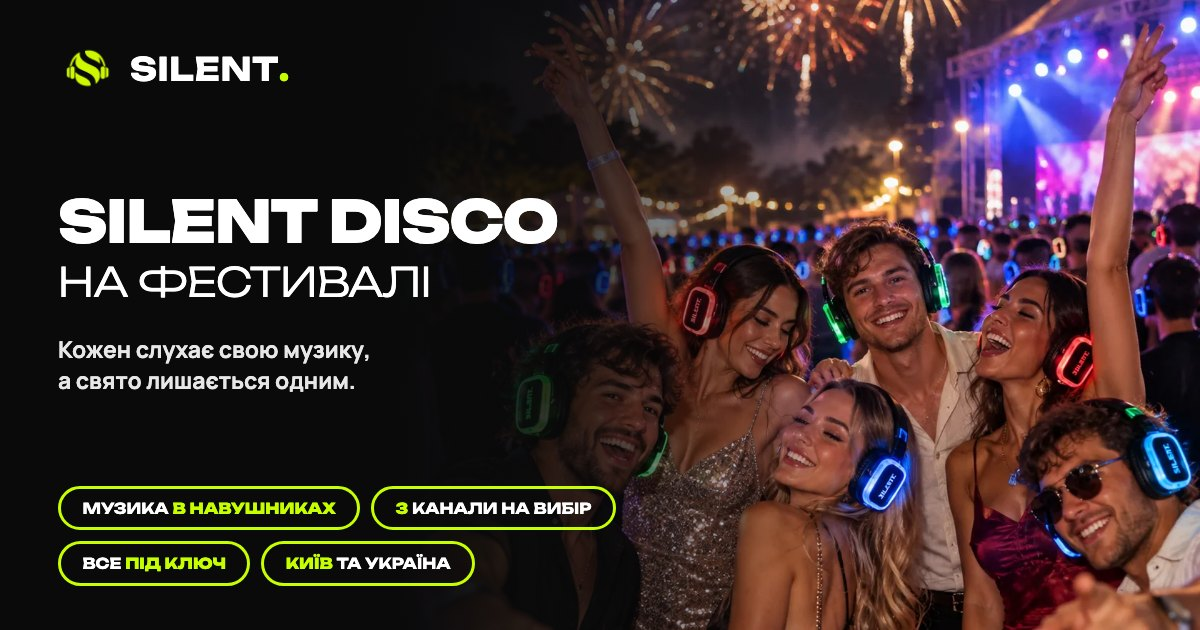
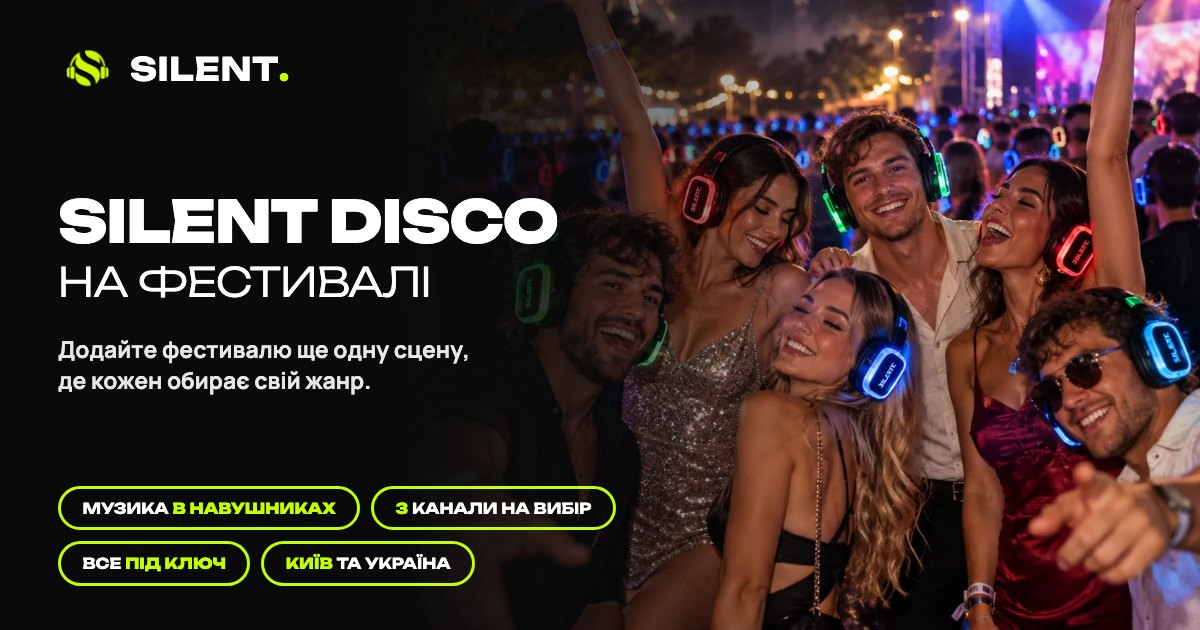
Фестивалі: нова OG-картка (друзі під салютом, підзаголовок про окрему сцену), оновлено alt OG

diff --git a/experiences/festivals/index.html b/experiences/festivals/index.html
@@ -47,12 +47,12 @@ if (/^(localhost|127\.0\.0\.1|\[::1\])$/.test(location.hostname) || /\.localhost
 <meta property="og:image:width" content="1200">
 <meta property="og:image:height" content="630">
 <meta property="og:image:type" content="image/jpeg">
-<meta property="og:image:alt" content="Гості фестивалю танцюють у навушниках Silent Disco із кольоровою підсвіткою">
+<meta property="og:image:alt" content="Друзі обіймаються під святковим салютом на фестивалі в навушниках Silent Disco">
 <meta name="twitter:card" content="summary_large_image">
 <meta name="twitter:title" content="Silent Disco на фестивалі | SILENT">
 <meta name="twitter:description" content="Фестиваль, де кожен слухає свою музику в навушниках, а на майданчику тихіше. Київ і вся Україна.">
 <meta name="twitter:image" content="https://silent.org.ua/images/festivals/og-festivals.jpg">
-<meta name="twitter:image:alt" content="Гості фестивалю танцюють у навушниках Silent Disco із кольоровою підсвіткою">
+<meta name="twitter:image:alt" content="Друзі обіймаються під святковим салютом на фестивалі в навушниках Silent Disco">
 <link rel="canonical" href="https://silent.org.ua/experiences/festivals/">
 <link rel="alternate" hreflang="uk" href="https://silent.org.ua/experiences/festivals/">
 <link rel="alternate" hreflang="en" href="https://silent.org.ua/en/experiences/festivals/">
@@ -533,10 +533,10 @@ if (/^(localhost|127\.0\.0\.1|\[::1\])$/.test(location.hostname) || /\.localhost
               <div class="nav-mega-card">
                 <div class="nav-mega-cat-head"><span class="nav-mega-icon" aria-hidden="true"><svg viewBox="0 0 24 24" fill="none" stroke="currentColor" stroke-width="1.7" stroke-linecap="round" stroke-linejoin="round"><rect x="3.5" y="3.5" width="7" height="7" rx="1.6"/><rect x="13.5" y="3.5" width="7" height="7" rx="1.6"/><rect x="3.5" y="13.5" width="7" height="7" rx="1.6"/><rect x="13.5" y="13.5" width="7" height="7" rx="1.6"/></svg></span><a href="/blog/#topics" class="nav-mega-cat">Добірка</a></div>
                 <div class="nav-blog-cards">
-                  <a href="/blog/tykha-dyskoteka-silent-disco/" class="nav-blog-card"><span class="nav-blog-thumb"><img src="/images/silent-disco/silent-disco-podrugy-tantsyuyut-pid-svitlom.webp" alt="" loading="lazy"></span> <span class="nav-blog-cat">Про формат</span> <span class="nav-blog-t">Silent Disco, або тиха дискотека: гід для тих, хто чує про формат уперше</span></a>
+                  <a href="/blog/vesillya-voyennyi-stan/" class="nav-blog-card"><span class="nav-blog-thumb"><img src="/images/uc/wedding.webp" alt="" loading="lazy"></span> <span class="nav-blog-cat">Свята</span> <span class="nav-blog-t">Весілля під час війни: розваги й комендантська година</span></a>
                   <a href="/blog/yak-vidsvyatkuvaty-den-narodzhennya/" class="nav-blog-card"><span class="nav-blog-thumb"><img src="/images/birthday/den-narodzhennya-selfi-v-navushnykakh.webp" alt="" loading="lazy"></span> <span class="nav-blog-cat">Свята</span> <span class="nav-blog-t">Як відсвяткувати день народження, щоб гості згадували його з посмішкою</span></a>
-                  <a href="/blog/idei-dlya-korporativu/" class="nav-blog-card"><span class="nav-blog-thumb"><img src="/images/corp/nichna-vechirka-pid-syayvom-navushnykiv.webp" alt="" loading="lazy"></span> <span class="nav-blog-cat">Бізнес</span> <span class="nav-blog-t">Ідеї для корпоративу: розваги без конкурсів і сцени</span></a>
-                  <a href="/blog/novorichnyi-korporatyv-idei/" class="nav-blog-card"><span class="nav-blog-thumb"><img src="/images/corp/yaskrave-selfi-na-vechirtsi-v-navushnykakh.webp" alt="" loading="lazy"></span> <span class="nav-blog-cat">Бізнес</span> <span class="nav-blog-t">Новорічний корпоратив: 7 ідей для вечірки, яку команда запам&#x27;ятає</span></a>
+                  <a href="/blog/vechirka-bez-shumu-sysidy/" class="nav-blog-card"><span class="nav-blog-thumb"><img src="/images/uc/houseparty.webp" alt="" loading="lazy"></span> <span class="nav-blog-cat">Організація</span> <span class="nav-blog-t">Як провести вечірку, щоб не заважати сусідам</span></a>
+                  <a href="/blog/tykha-dyskoteka-silent-disco/" class="nav-blog-card"><span class="nav-blog-thumb"><img src="/images/silent-disco/silent-disco-podrugy-tantsyuyut-pid-svitlom.webp" alt="" loading="lazy"></span> <span class="nav-blog-cat">Про формат</span> <span class="nav-blog-t">Silent Disco, або тиха дискотека: гід для тих, хто чує про формат уперше</span></a>
                 </div>
                 <a href="/blog/" class="nav-mega-all">Усі статті<svg viewBox="0 0 24 24" fill="none" stroke="currentColor" stroke-width="2" stroke-linecap="round" stroke-linejoin="round" aria-hidden="true"><path d="M5 12h14"/><path d="m13 6 6 6-6 6"/></svg></a>
               </div>

diff --git a/about/index.html b/about/index.html
@@ -392,10 +392,10 @@ if (/^(localhost|127\.0\.0\.1|\[::1\])$/.test(location.hostname) || /\.localhost
               <div class="nav-mega-card">
                 <div class="nav-mega-cat-head"><span class="nav-mega-icon" aria-hidden="true"><svg viewBox="0 0 24 24" fill="none" stroke="currentColor" stroke-width="1.7" stroke-linecap="round" stroke-linejoin="round"><rect x="3.5" y="3.5" width="7" height="7" rx="1.6"/><rect x="13.5" y="3.5" width="7" height="7" rx="1.6"/><rect x="3.5" y="13.5" width="7" height="7" rx="1.6"/><rect x="13.5" y="13.5" width="7" height="7" rx="1.6"/></svg></span><a href="/blog/#topics" class="nav-mega-cat">Добірка</a></div>
                 <div class="nav-blog-cards">
-                  <a href="/blog/tykha-dyskoteka-silent-disco/" class="nav-blog-card"><span class="nav-blog-thumb"><img src="/images/silent-disco/silent-disco-podrugy-tantsyuyut-pid-svitlom.webp" alt="" loading="lazy"></span> <span class="nav-blog-cat">Про формат</span> <span class="nav-blog-t">Silent Disco, або тиха дискотека: гід для тих, хто чує про формат уперше</span></a>
+                  <a href="/blog/vesillya-voyennyi-stan/" class="nav-blog-card"><span class="nav-blog-thumb"><img src="/images/uc/wedding.webp" alt="" loading="lazy"></span> <span class="nav-blog-cat">Свята</span> <span class="nav-blog-t">Весілля під час війни: розваги й комендантська година</span></a>
                   <a href="/blog/yak-vidsvyatkuvaty-den-narodzhennya/" class="nav-blog-card"><span class="nav-blog-thumb"><img src="/images/birthday/den-narodzhennya-selfi-v-navushnykakh.webp" alt="" loading="lazy"></span> <span class="nav-blog-cat">Свята</span> <span class="nav-blog-t">Як відсвяткувати день народження, щоб гості згадували його з посмішкою</span></a>
-                  <a href="/blog/idei-dlya-korporativu/" class="nav-blog-card"><span class="nav-blog-thumb"><img src="/images/corp/nichna-vechirka-pid-syayvom-navushnykiv.webp" alt="" loading="lazy"></span> <span class="nav-blog-cat">Бізнес</span> <span class="nav-blog-t">Ідеї для корпоративу: розваги без конкурсів і сцени</span></a>
-                  <a href="/blog/novorichnyi-korporatyv-idei/" class="nav-blog-card"><span class="nav-blog-thumb"><img src="/images/corp/yaskrave-selfi-na-vechirtsi-v-navushnykakh.webp" alt="" loading="lazy"></span> <span class="nav-blog-cat">Бізнес</span> <span class="nav-blog-t">Новорічний корпоратив: 7 ідей для вечірки, яку команда запам&#x27;ятає</span></a>
+                  <a href="/blog/vechirka-bez-shumu-sysidy/" class="nav-blog-card"><span class="nav-blog-thumb"><img src="/images/uc/houseparty.webp" alt="" loading="lazy"></span> <span class="nav-blog-cat">Організація</span> <span class="nav-blog-t">Як провести вечірку, щоб не заважати сусідам</span></a>
+                  <a href="/blog/tykha-dyskoteka-silent-disco/" class="nav-blog-card"><span class="nav-blog-thumb"><img src="/images/silent-disco/silent-disco-podrugy-tantsyuyut-pid-svitlom.webp" alt="" loading="lazy"></span> <span class="nav-blog-cat">Про формат</span> <span class="nav-blog-t">Silent Disco, або тиха дискотека: гід для тих, хто чує про формат уперше</span></a>
                 </div>
                 <a href="/blog/" class="nav-mega-all">Усі статті<svg viewBox="0 0 24 24" fill="none" stroke="currentColor" stroke-width="2" stroke-linecap="round" stroke-linejoin="round" aria-hidden="true"><path d="M5 12h14"/><path d="m13 6 6 6-6 6"/></svg></a>
               </div>

diff --git a/blog/dlya-yakykh-podiy-zamovlyayut-silent-disco/index.html b/blog/dlya-yakykh-podiy-zamovlyayut-silent-disco/index.html
@@ -469,10 +469,10 @@ if (/^(localhost|127\.0\.0\.1|\[::1\])$/.test(location.hostname) || /\.localhost
               <div class="nav-mega-card">
                 <div class="nav-mega-cat-head"><span class="nav-mega-icon" aria-hidden="true"><svg viewBox="0 0 24 24" fill="none" stroke="currentColor" stroke-width="1.7" stroke-linecap="round" stroke-linejoin="round"><rect x="3.5" y="3.5" width="7" height="7" rx="1.6"/><rect x="13.5" y="3.5" width="7" height="7" rx="1.6"/><rect x="3.5" y="13.5" width="7" height="7" rx="1.6"/><rect x="13.5" y="13.5" width="7" height="7" rx="1.6"/></svg></span><a href="/blog/#topics" class="nav-mega-cat">Добірка</a></div>
                 <div class="nav-blog-cards">
-                  <a href="/blog/tykha-dyskoteka-silent-disco/" class="nav-blog-card"><span class="nav-blog-thumb"><img src="/images/silent-disco/silent-disco-podrugy-tantsyuyut-pid-svitlom.webp" alt="" loading="lazy"></span> <span class="nav-blog-cat">Про формат</span> <span class="nav-blog-t">Silent Disco, або тиха дискотека: гід для тих, хто чує про формат уперше</span></a>
+                  <a href="/blog/vesillya-voyennyi-stan/" class="nav-blog-card"><span class="nav-blog-thumb"><img src="/images/uc/wedding.webp" alt="" loading="lazy"></span> <span class="nav-blog-cat">Свята</span> <span class="nav-blog-t">Весілля під час війни: розваги й комендантська година</span></a>
                   <a href="/blog/yak-vidsvyatkuvaty-den-narodzhennya/" class="nav-blog-card"><span class="nav-blog-thumb"><img src="/images/birthday/den-narodzhennya-selfi-v-navushnykakh.webp" alt="" loading="lazy"></span> <span class="nav-blog-cat">Свята</span> <span class="nav-blog-t">Як відсвяткувати день народження, щоб гості згадували його з посмішкою</span></a>
-                  <a href="/blog/idei-dlya-korporativu/" class="nav-blog-card"><span class="nav-blog-thumb"><img src="/images/corp/nichna-vechirka-pid-syayvom-navushnykiv.webp" alt="" loading="lazy"></span> <span class="nav-blog-cat">Бізнес</span> <span class="nav-blog-t">Ідеї для корпоративу: розваги без конкурсів і сцени</span></a>
-                  <a href="/blog/novorichnyi-korporatyv-idei/" class="nav-blog-card"><span class="nav-blog-thumb"><img src="/images/corp/yaskrave-selfi-na-vechirtsi-v-navushnykakh.webp" alt="" loading="lazy"></span> <span class="nav-blog-cat">Бізнес</span> <span class="nav-blog-t">Новорічний корпоратив: 7 ідей для вечірки, яку команда запам&#x27;ятає</span></a>
+                  <a href="/blog/vechirka-bez-shumu-sysidy/" class="nav-blog-card"><span class="nav-blog-thumb"><img src="/images/uc/houseparty.webp" alt="" loading="lazy"></span> <span class="nav-blog-cat">Організація</span> <span class="nav-blog-t">Як провести вечірку, щоб не заважати сусідам</span></a>
+                  <a href="/blog/tykha-dyskoteka-silent-disco/" class="nav-blog-card"><span class="nav-blog-thumb"><img src="/images/silent-disco/silent-disco-podrugy-tantsyuyut-pid-svitlom.webp" alt="" loading="lazy"></span> <span class="nav-blog-cat">Про формат</span> <span class="nav-blog-t">Silent Disco, або тиха дискотека: гід для тих, хто чує про формат уперше</span></a>
                 </div>
                 <a href="/blog/" class="nav-mega-all">Усі статті<svg viewBox="0 0 24 24" fill="none" stroke="currentColor" stroke-width="2" stroke-linecap="round" stroke-linejoin="round" aria-hidden="true"><path d="M5 12h14"/><path d="m13 6 6 6-6 6"/></svg></a>
               </div>

diff --git a/blog/idei-dlya-korporativu/index.html b/blog/idei-dlya-korporativu/index.html
@@ -485,10 +485,10 @@ if (/^(localhost|127\.0\.0\.1|\[::1\])$/.test(location.hostname) || /\.localhost
               <div class="nav-mega-card">
                 <div class="nav-mega-cat-head"><span class="nav-mega-icon" aria-hidden="true"><svg viewBox="0 0 24 24" fill="none" stroke="currentColor" stroke-width="1.7" stroke-linecap="round" stroke-linejoin="round"><rect x="3.5" y="3.5" width="7" height="7" rx="1.6"/><rect x="13.5" y="3.5" width="7" height="7" rx="1.6"/><rect x="3.5" y="13.5" width="7" height="7" rx="1.6"/><rect x="13.5" y="13.5" width="7" height="7" rx="1.6"/></svg></span><a href="/blog/#topics" class="nav-mega-cat">Добірка</a></div>
                 <div class="nav-blog-cards">
-                  <a href="/blog/tykha-dyskoteka-silent-disco/" class="nav-blog-card"><span class="nav-blog-thumb"><img src="/images/silent-disco/silent-disco-podrugy-tantsyuyut-pid-svitlom.webp" alt="" loading="lazy"></span> <span class="nav-blog-cat">Про формат</span> <span class="nav-blog-t">Silent Disco, або тиха дискотека: гід для тих, хто чує про формат уперше</span></a>
+                  <a href="/blog/vesillya-voyennyi-stan/" class="nav-blog-card"><span class="nav-blog-thumb"><img src="/images/uc/wedding.webp" alt="" loading="lazy"></span> <span class="nav-blog-cat">Свята</span> <span class="nav-blog-t">Весілля під час війни: розваги й комендантська година</span></a>
                   <a href="/blog/yak-vidsvyatkuvaty-den-narodzhennya/" class="nav-blog-card"><span class="nav-blog-thumb"><img src="/images/birthday/den-narodzhennya-selfi-v-navushnykakh.webp" alt="" loading="lazy"></span> <span class="nav-blog-cat">Свята</span> <span class="nav-blog-t">Як відсвяткувати день народження, щоб гості згадували його з посмішкою</span></a>
-                  <a href="/blog/idei-dlya-korporativu/" class="nav-blog-card"><span class="nav-blog-thumb"><img src="/images/corp/nichna-vechirka-pid-syayvom-navushnykiv.webp" alt="" loading="lazy"></span> <span class="nav-blog-cat">Бізнес</span> <span class="nav-blog-t">Ідеї для корпоративу: розваги без конкурсів і сцени</span></a>
-                  <a href="/blog/novorichnyi-korporatyv-idei/" class="nav-blog-card"><span class="nav-blog-thumb"><img src="/images/corp/yaskrave-selfi-na-vechirtsi-v-navushnykakh.webp" alt="" loading="lazy"></span> <span class="nav-blog-cat">Бізнес</span> <span class="nav-blog-t">Новорічний корпоратив: 7 ідей для вечірки, яку команда запам&#x27;ятає</span></a>
+                  <a href="/blog/vechirka-bez-shumu-sysidy/" class="nav-blog-card"><span class="nav-blog-thumb"><img src="/images/uc/houseparty.webp" alt="" loading="lazy"></span> <span class="nav-blog-cat">Організація</span> <span class="nav-blog-t">Як провести вечірку, щоб не заважати сусідам</span></a>
+                  <a href="/blog/tykha-dyskoteka-silent-disco/" class="nav-blog-card"><span class="nav-blog-thumb"><img src="/images/silent-disco/silent-disco-podrugy-tantsyuyut-pid-svitlom.webp" alt="" loading="lazy"></span> <span class="nav-blog-cat">Про формат</span> <span class="nav-blog-t">Silent Disco, або тиха дискотека: гід для тих, хто чує про формат уперше</span></a>
                 </div>
                 <a href="/blog/" class="nav-mega-all">Усі статті<svg viewBox="0 0 24 24" fill="none" stroke="currentColor" stroke-width="2" stroke-linecap="round" stroke-linejoin="round" aria-hidden="true"><path d="M5 12h14"/><path d="m13 6 6 6-6 6"/></svg></a>
               </div>

diff --git a/blog/index.html b/blog/index.html
@@ -398,10 +398,10 @@ if (/^(localhost|127\.0\.0\.1|\[::1\])$/.test(location.hostname) || /\.localhost
               <div class="nav-mega-card">
                 <div class="nav-mega-cat-head"><span class="nav-mega-icon" aria-hidden="true"><svg viewBox="0 0 24 24" fill="none" stroke="currentColor" stroke-width="1.7" stroke-linecap="round" stroke-linejoin="round"><rect x="3.5" y="3.5" width="7" height="7" rx="1.6"/><rect x="13.5" y="3.5" width="7" height="7" rx="1.6"/><rect x="3.5" y="13.5" width="7" height="7" rx="1.6"/><rect x="13.5" y="13.5" width="7" height="7" rx="1.6"/></svg></span><a href="/blog/#topics" class="nav-mega-cat">Добірка</a></div>
                 <div class="nav-blog-cards">
-                  <a href="/blog/tykha-dyskoteka-silent-disco/" class="nav-blog-card"><span class="nav-blog-thumb"><img src="/images/silent-disco/silent-disco-podrugy-tantsyuyut-pid-svitlom.webp" alt="" loading="lazy"></span> <span class="nav-blog-cat">Про формат</span> <span class="nav-blog-t">Silent Disco, або тиха дискотека: гід для тих, хто чує про формат уперше</span></a>
+                  <a href="/blog/vesillya-voyennyi-stan/" class="nav-blog-card"><span class="nav-blog-thumb"><img src="/images/uc/wedding.webp" alt="" loading="lazy"></span> <span class="nav-blog-cat">Свята</span> <span class="nav-blog-t">Весілля під час війни: розваги й комендантська година</span></a>
                   <a href="/blog/yak-vidsvyatkuvaty-den-narodzhennya/" class="nav-blog-card"><span class="nav-blog-thumb"><img src="/images/birthday/den-narodzhennya-selfi-v-navushnykakh.webp" alt="" loading="lazy"></span> <span class="nav-blog-cat">Свята</span> <span class="nav-blog-t">Як відсвяткувати день народження, щоб гості згадували його з посмішкою</span></a>
-                  <a href="/blog/idei-dlya-korporativu/" class="nav-blog-card"><span class="nav-blog-thumb"><img src="/images/corp/nichna-vechirka-pid-syayvom-navushnykiv.webp" alt="" loading="lazy"></span> <span class="nav-blog-cat">Бізнес</span> <span class="nav-blog-t">Ідеї для корпоративу: розваги без конкурсів і сцени</span></a>
-                  <a href="/blog/novorichnyi-korporatyv-idei/" class="nav-blog-card"><span class="nav-blog-thumb"><img src="/images/corp/yaskrave-selfi-na-vechirtsi-v-navushnykakh.webp" alt="" loading="lazy"></span> <span class="nav-blog-cat">Бізнес</span> <span class="nav-blog-t">Новорічний корпоратив: 7 ідей для вечірки, яку команда запам&#x27;ятає</span></a>
+                  <a href="/blog/vechirka-bez-shumu-sysidy/" class="nav-blog-card"><span class="nav-blog-thumb"><img src="/images/uc/houseparty.webp" alt="" loading="lazy"></span> <span class="nav-blog-cat">Організація</span> <span class="nav-blog-t">Як провести вечірку, щоб не заважати сусідам</span></a>
+                  <a href="/blog/tykha-dyskoteka-silent-disco/" class="nav-blog-card"><span class="nav-blog-thumb"><img src="/images/silent-disco/silent-disco-podrugy-tantsyuyut-pid-svitlom.webp" alt="" loading="lazy"></span> <span class="nav-blog-cat">Про формат</span> <span class="nav-blog-t">Silent Disco, або тиха дискотека: гід для тих, хто чує про формат уперше</span></a>
                 </div>
                 <a href="/blog/" class="nav-mega-all">Усі статті<svg viewBox="0 0 24 24" fill="none" stroke="currentColor" stroke-width="2" stroke-linecap="round" stroke-linejoin="round" aria-hidden="true"><path d="M5 12h14"/><path d="m13 6 6 6-6 6"/></svg></a>
               </div>

diff --git a/blog/novorichnyi-korporatyv-idei/index.html b/blog/novorichnyi-korporatyv-idei/index.html
@@ -469,10 +469,10 @@ if (/^(localhost|127\.0\.0\.1|\[::1\])$/.test(location.hostname) || /\.localhost
               <div class="nav-mega-card">
                 <div class="nav-mega-cat-head"><span class="nav-mega-icon" aria-hidden="true"><svg viewBox="0 0 24 24" fill="none" stroke="currentColor" stroke-width="1.7" stroke-linecap="round" stroke-linejoin="round"><rect x="3.5" y="3.5" width="7" height="7" rx="1.6"/><rect x="13.5" y="3.5" width="7" height="7" rx="1.6"/><rect x="3.5" y="13.5" width="7" height="7" rx="1.6"/><rect x="13.5" y="13.5" width="7" height="7" rx="1.6"/></svg></span><a href="/blog/#topics" class="nav-mega-cat">Добірка</a></div>
                 <div class="nav-blog-cards">
-                  <a href="/blog/tykha-dyskoteka-silent-disco/" class="nav-blog-card"><span class="nav-blog-thumb"><img src="/images/silent-disco/silent-disco-podrugy-tantsyuyut-pid-svitlom.webp" alt="" loading="lazy"></span> <span class="nav-blog-cat">Про формат</span> <span class="nav-blog-t">Silent Disco, або тиха дискотека: гід для тих, хто чує про формат уперше</span></a>
+                  <a href="/blog/vesillya-voyennyi-stan/" class="nav-blog-card"><span class="nav-blog-thumb"><img src="/images/uc/wedding.webp" alt="" loading="lazy"></span> <span class="nav-blog-cat">Свята</span> <span class="nav-blog-t">Весілля під час війни: розваги й комендантська година</span></a>
                   <a href="/blog/yak-vidsvyatkuvaty-den-narodzhennya/" class="nav-blog-card"><span class="nav-blog-thumb"><img src="/images/birthday/den-narodzhennya-selfi-v-navushnykakh.webp" alt="" loading="lazy"></span> <span class="nav-blog-cat">Свята</span> <span class="nav-blog-t">Як відсвяткувати день народження, щоб гості згадували його з посмішкою</span></a>
-                  <a href="/blog/idei-dlya-korporativu/" class="nav-blog-card"><span class="nav-blog-thumb"><img src="/images/corp/nichna-vechirka-pid-syayvom-navushnykiv.webp" alt="" loading="lazy"></span> <span class="nav-blog-cat">Бізнес</span> <span class="nav-blog-t">Ідеї для корпоративу: розваги без конкурсів і сцени</span></a>
-                  <a href="/blog/novorichnyi-korporatyv-idei/" class="nav-blog-card"><span class="nav-blog-thumb"><img src="/images/corp/yaskrave-selfi-na-vechirtsi-v-navushnykakh.webp" alt="" loading="lazy"></span> <span class="nav-blog-cat">Бізнес</span> <span class="nav-blog-t">Новорічний корпоратив: 7 ідей для вечірки, яку команда запам&#x27;ятає</span></a>
+                  <a href="/blog/vechirka-bez-shumu-sysidy/" class="nav-blog-card"><span class="nav-blog-thumb"><img src="/images/uc/houseparty.webp" alt="" loading="lazy"></span> <span class="nav-blog-cat">Організація</span> <span class="nav-blog-t">Як провести вечірку, щоб не заважати сусідам</span></a>
+                  <a href="/blog/tykha-dyskoteka-silent-disco/" class="nav-blog-card"><span class="nav-blog-thumb"><img src="/images/silent-disco/silent-disco-podrugy-tantsyuyut-pid-svitlom.webp" alt="" loading="lazy"></span> <span class="nav-blog-cat">Про формат</span> <span class="nav-blog-t">Silent Disco, або тиха дискотека: гід для тих, хто чує про формат уперше</span></a>
                 </div>
                 <a href="/blog/" class="nav-mega-all">Усі статті<svg viewBox="0 0 24 24" fill="none" stroke="currentColor" stroke-width="2" stroke-linecap="round" stroke-linejoin="round" aria-hidden="true"><path d="M5 12h14"/><path d="m13 6 6 6-6 6"/></svg></a>
               </div>

diff --git a/blog/silent-disco-dlya-riznykh-podiy/index.html b/blog/silent-disco-dlya-riznykh-podiy/index.html
@@ -485,10 +485,10 @@ if (/^(localhost|127\.0\.0\.1|\[::1\])$/.test(location.hostname) || /\.localhost
               <div class="nav-mega-card">
                 <div class="nav-mega-cat-head"><span class="nav-mega-icon" aria-hidden="true"><svg viewBox="0 0 24 24" fill="none" stroke="currentColor" stroke-width="1.7" stroke-linecap="round" stroke-linejoin="round"><rect x="3.5" y="3.5" width="7" height="7" rx="1.6"/><rect x="13.5" y="3.5" width="7" height="7" rx="1.6"/><rect x="3.5" y="13.5" width="7" height="7" rx="1.6"/><rect x="13.5" y="13.5" width="7" height="7" rx="1.6"/></svg></span><a href="/blog/#topics" class="nav-mega-cat">Добірка</a></div>
                 <div class="nav-blog-cards">
-                  <a href="/blog/tykha-dyskoteka-silent-disco/" class="nav-blog-card"><span class="nav-blog-thumb"><img src="/images/silent-disco/silent-disco-podrugy-tantsyuyut-pid-svitlom.webp" alt="" loading="lazy"></span> <span class="nav-blog-cat">Про формат</span> <span class="nav-blog-t">Silent Disco, або тиха дискотека: гід для тих, хто чує про формат уперше</span></a>
+                  <a href="/blog/vesillya-voyennyi-stan/" class="nav-blog-card"><span class="nav-blog-thumb"><img src="/images/uc/wedding.webp" alt="" loading="lazy"></span> <span class="nav-blog-cat">Свята</span> <span class="nav-blog-t">Весілля під час війни: розваги й комендантська година</span></a>
                   <a href="/blog/yak-vidsvyatkuvaty-den-narodzhennya/" class="nav-blog-card"><span class="nav-blog-thumb"><img src="/images/birthday/den-narodzhennya-selfi-v-navushnykakh.webp" alt="" loading="lazy"></span> <span class="nav-blog-cat">Свята</span> <span class="nav-blog-t">Як відсвяткувати день народження, щоб гості згадували його з посмішкою</span></a>
-                  <a href="/blog/idei-dlya-korporativu/" class="nav-blog-card"><span class="nav-blog-thumb"><img src="/images/corp/nichna-vechirka-pid-syayvom-navushnykiv.webp" alt="" loading="lazy"></span> <span class="nav-blog-cat">Бізнес</span> <span class="nav-blog-t">Ідеї для корпоративу: розваги без конкурсів і сцени</span></a>
-                  <a href="/blog/novorichnyi-korporatyv-idei/" class="nav-blog-card"><span class="nav-blog-thumb"><img src="/images/corp/yaskrave-selfi-na-vechirtsi-v-navushnykakh.webp" alt="" loading="lazy"></span> <span class="nav-blog-cat">Бізнес</span> <span class="nav-blog-t">Новорічний корпоратив: 7 ідей для вечірки, яку команда запам&#x27;ятає</span></a>
+                  <a href="/blog/vechirka-bez-shumu-sysidy/" class="nav-blog-card"><span class="nav-blog-thumb"><img src="/images/uc/houseparty.webp" alt="" loading="lazy"></span> <span class="nav-blog-cat">Організація</span> <span class="nav-blog-t">Як провести вечірку, щоб не заважати сусідам</span></a>
+                  <a href="/blog/tykha-dyskoteka-silent-disco/" class="nav-blog-card"><span class="nav-blog-thumb"><img src="/images/silent-disco/silent-disco-podrugy-tantsyuyut-pid-svitlom.webp" alt="" loading="lazy"></span> <span class="nav-blog-cat">Про формат</span> <span class="nav-blog-t">Silent Disco, або тиха дискотека: гід для тих, хто чує про формат уперше</span></a>
                 </div>
                 <a href="/blog/" class="nav-mega-all">Усі статті<svg viewBox="0 0 24 24" fill="none" stroke="currentColor" stroke-width="2" stroke-linecap="round" stroke-linejoin="round" aria-hidden="true"><path d="M5 12h14"/><path d="m13 6 6 6-6 6"/></svg></a>
               </div>

diff --git a/blog/tykha-dyskoteka-silent-disco/index.html b/blog/tykha-dyskoteka-silent-disco/index.html
@@ -501,10 +501,10 @@ if (/^(localhost|127\.0\.0\.1|\[::1\])$/.test(location.hostname) || /\.localhost
               <div class="nav-mega-card">
                 <div class="nav-mega-cat-head"><span class="nav-mega-icon" aria-hidden="true"><svg viewBox="0 0 24 24" fill="none" stroke="currentColor" stroke-width="1.7" stroke-linecap="round" stroke-linejoin="round"><rect x="3.5" y="3.5" width="7" height="7" rx="1.6"/><rect x="13.5" y="3.5" width="7" height="7" rx="1.6"/><rect x="3.5" y="13.5" width="7" height="7" rx="1.6"/><rect x="13.5" y="13.5" width="7" height="7" rx="1.6"/></svg></span><a href="/blog/#topics" class="nav-mega-cat">Добірка</a></div>
                 <div class="nav-blog-cards">
-                  <a href="/blog/tykha-dyskoteka-silent-disco/" class="nav-blog-card"><span class="nav-blog-thumb"><img src="/images/silent-disco/silent-disco-podrugy-tantsyuyut-pid-svitlom.webp" alt="" loading="lazy"></span> <span class="nav-blog-cat">Про формат</span> <span class="nav-blog-t">Silent Disco, або тиха дискотека: гід для тих, хто чує про формат уперше</span></a>
+                  <a href="/blog/vesillya-voyennyi-stan/" class="nav-blog-card"><span class="nav-blog-thumb"><img src="/images/uc/wedding.webp" alt="" loading="lazy"></span> <span class="nav-blog-cat">Свята</span> <span class="nav-blog-t">Весілля під час війни: розваги й комендантська година</span></a>
                   <a href="/blog/yak-vidsvyatkuvaty-den-narodzhennya/" class="nav-blog-card"><span class="nav-blog-thumb"><img src="/images/birthday/den-narodzhennya-selfi-v-navushnykakh.webp" alt="" loading="lazy"></span> <span class="nav-blog-cat">Свята</span> <span class="nav-blog-t">Як відсвяткувати день народження, щоб гості згадували його з посмішкою</span></a>
-                  <a href="/blog/idei-dlya-korporativu/" class="nav-blog-card"><span class="nav-blog-thumb"><img src="/images/corp/nichna-vechirka-pid-syayvom-navushnykiv.webp" alt="" loading="lazy"></span> <span class="nav-blog-cat">Бізнес</span> <span class="nav-blog-t">Ідеї для корпоративу: розваги без конкурсів і сцени</span></a>
-                  <a href="/blog/novorichnyi-korporatyv-idei/" class="nav-blog-card"><span class="nav-blog-thumb"><img src="/images/corp/yaskrave-selfi-na-vechirtsi-v-navushnykakh.webp" alt="" loading="lazy"></span> <span class="nav-blog-cat">Бізнес</span> <span class="nav-blog-t">Новорічний корпоратив: 7 ідей для вечірки, яку команда запам&#x27;ятає</span></a>
+                  <a href="/blog/vechirka-bez-shumu-sysidy/" class="nav-blog-card"><span class="nav-blog-thumb"><img src="/images/uc/houseparty.webp" alt="" loading="lazy"></span> <span class="nav-blog-cat">Організація</span> <span class="nav-blog-t">Як провести вечірку, щоб не заважати сусідам</span></a>
+                  <a href="/blog/tykha-dyskoteka-silent-disco/" class="nav-blog-card"><span class="nav-blog-thumb"><img src="/images/silent-disco/silent-disco-podrugy-tantsyuyut-pid-svitlom.webp" alt="" loading="lazy"></span> <span class="nav-blog-cat">Про формат</span> <span class="nav-blog-t">Silent Disco, або тиха дискотека: гід для тих, хто чує про формат уперше</span></a>
                 </div>
                 <a href="/blog/" class="nav-mega-all">Усі статті<svg viewBox="0 0 24 24" fill="none" stroke="currentColor" stroke-width="2" stroke-linecap="round" stroke-linejoin="round" aria-hidden="true"><path d="M5 12h14"/><path d="m13 6 6 6-6 6"/></svg></a>
               </div>

diff --git a/blog/vechirka-bez-shumu-sysidy/index.html b/blog/vechirka-bez-shumu-sysidy/index.html
@@ -501,10 +501,10 @@ if (/^(localhost|127\.0\.0\.1|\[::1\])$/.test(location.hostname) || /\.localhost
               <div class="nav-mega-card">
                 <div class="nav-mega-cat-head"><span class="nav-mega-icon" aria-hidden="true"><svg viewBox="0 0 24 24" fill="none" stroke="currentColor" stroke-width="1.7" stroke-linecap="round" stroke-linejoin="round"><rect x="3.5" y="3.5" width="7" height="7" rx="1.6"/><rect x="13.5" y="3.5" width="7" height="7" rx="1.6"/><rect x="3.5" y="13.5" width="7" height="7" rx="1.6"/><rect x="13.5" y="13.5" width="7" height="7" rx="1.6"/></svg></span><a href="/blog/#topics" class="nav-mega-cat">Добірка</a></div>
                 <div class="nav-blog-cards">
-                  <a href="/blog/tykha-dyskoteka-silent-disco/" class="nav-blog-card"><span class="nav-blog-thumb"><img src="/images/silent-disco/silent-disco-podrugy-tantsyuyut-pid-svitlom.webp" alt="" loading="lazy"></span> <span class="nav-blog-cat">Про формат</span> <span class="nav-blog-t">Silent Disco, або тиха дискотека: гід для тих, хто чує про формат уперше</span></a>
+                  <a href="/blog/vesillya-voyennyi-stan/" class="nav-blog-card"><span class="nav-blog-thumb"><img src="/images/uc/wedding.webp" alt="" loading="lazy"></span> <span class="nav-blog-cat">Свята</span> <span class="nav-blog-t">Весілля під час війни: розваги й комендантська година</span></a>
                   <a href="/blog/yak-vidsvyatkuvaty-den-narodzhennya/" class="nav-blog-card"><span class="nav-blog-thumb"><img src="/images/birthday/den-narodzhennya-selfi-v-navushnykakh.webp" alt="" loading="lazy"></span> <span class="nav-blog-cat">Свята</span> <span class="nav-blog-t">Як відсвяткувати день народження, щоб гості згадували його з посмішкою</span></a>
-                  <a href="/blog/idei-dlya-korporativu/" class="nav-blog-card"><span class="nav-blog-thumb"><img src="/images/corp/nichna-vechirka-pid-syayvom-navushnykiv.webp" alt="" loading="lazy"></span> <span class="nav-blog-cat">Бізнес</span> <span class="nav-blog-t">Ідеї для корпоративу: розваги без конкурсів і сцени</span></a>
-                  <a href="/blog/novorichnyi-korporatyv-idei/" class="nav-blog-card"><span class="nav-blog-thumb"><img src="/images/corp/yaskrave-selfi-na-vechirtsi-v-navushnykakh.webp" alt="" loading="lazy"></span> <span class="nav-blog-cat">Бізнес</span> <span class="nav-blog-t">Новорічний корпоратив: 7 ідей для вечірки, яку команда запам&#x27;ятає</span></a>
+                  <a href="/blog/vechirka-bez-shumu-sysidy/" class="nav-blog-card"><span class="nav-blog-thumb"><img src="/images/uc/houseparty.webp" alt="" loading="lazy"></span> <span class="nav-blog-cat">Організація</span> <span class="nav-blog-t">Як провести вечірку, щоб не заважати сусідам</span></a>
+                  <a href="/blog/tykha-dyskoteka-silent-disco/" class="nav-blog-card"><span class="nav-blog-thumb"><img src="/images/silent-disco/silent-disco-podrugy-tantsyuyut-pid-svitlom.webp" alt="" loading="lazy"></span> <span class="nav-blog-cat">Про формат</span> <span class="nav-blog-t">Silent Disco, або тиха дискотека: гід для тих, хто чує про формат уперше</span></a>
                 </div>
                 <a href="/blog/" class="nav-mega-all">Усі статті<svg viewBox="0 0 24 24" fill="none" stroke="currentColor" stroke-width="2" stroke-linecap="round" stroke-linejoin="round" aria-hidden="true"><path d="M5 12h14"/><path d="m13 6 6 6-6 6"/></svg></a>
               </div>

diff --git a/blog/vesillya-voyennyi-stan/index.html b/blog/vesillya-voyennyi-stan/index.html
@@ -485,10 +485,10 @@ if (/^(localhost|127\.0\.0\.1|\[::1\])$/.test(location.hostname) || /\.localhost
               <div class="nav-mega-card">
                 <div class="nav-mega-cat-head"><span class="nav-mega-icon" aria-hidden="true"><svg viewBox="0 0 24 24" fill="none" stroke="currentColor" stroke-width="1.7" stroke-linecap="round" stroke-linejoin="round"><rect x="3.5" y="3.5" width="7" height="7" rx="1.6"/><rect x="13.5" y="3.5" width="7" height="7" rx="1.6"/><rect x="3.5" y="13.5" width="7" height="7" rx="1.6"/><rect x="13.5" y="13.5" width="7" height="7" rx="1.6"/></svg></span><a href="/blog/#topics" class="nav-mega-cat">Добірка</a></div>
                 <div class="nav-blog-cards">
-                  <a href="/blog/tykha-dyskoteka-silent-disco/" class="nav-blog-card"><span class="nav-blog-thumb"><img src="/images/silent-disco/silent-disco-podrugy-tantsyuyut-pid-svitlom.webp" alt="" loading="lazy"></span> <span class="nav-blog-cat">Про формат</span> <span class="nav-blog-t">Silent Disco, або тиха дискотека: гід для тих, хто чує про формат уперше</span></a>
+                  <a href="/blog/vesillya-voyennyi-stan/" class="nav-blog-card"><span class="nav-blog-thumb"><img src="/images/uc/wedding.webp" alt="" loading="lazy"></span> <span class="nav-blog-cat">Свята</span> <span class="nav-blog-t">Весілля під час війни: розваги й комендантська година</span></a>
                   <a href="/blog/yak-vidsvyatkuvaty-den-narodzhennya/" class="nav-blog-card"><span class="nav-blog-thumb"><img src="/images/birthday/den-narodzhennya-selfi-v-navushnykakh.webp" alt="" loading="lazy"></span> <span class="nav-blog-cat">Свята</span> <span class="nav-blog-t">Як відсвяткувати день народження, щоб гості згадували його з посмішкою</span></a>
-                  <a href="/blog/idei-dlya-korporativu/" class="nav-blog-card"><span class="nav-blog-thumb"><img src="/images/corp/nichna-vechirka-pid-syayvom-navushnykiv.webp" alt="" loading="lazy"></span> <span class="nav-blog-cat">Бізнес</span> <span class="nav-blog-t">Ідеї для корпоративу: розваги без конкурсів і сцени</span></a>
-                  <a href="/blog/novorichnyi-korporatyv-idei/" class="nav-blog-card"><span class="nav-blog-thumb"><img src="/images/corp/yaskrave-selfi-na-vechirtsi-v-navushnykakh.webp" alt="" loading="lazy"></span> <span class="nav-blog-cat">Бізнес</span> <span class="nav-blog-t">Новорічний корпоратив: 7 ідей для вечірки, яку команда запам&#x27;ятає</span></a>
+                  <a href="/blog/vechirka-bez-shumu-sysidy/" class="nav-blog-card"><span class="nav-blog-thumb"><img src="/images/uc/houseparty.webp" alt="" loading="lazy"></span> <span class="nav-blog-cat">Організація</span> <span class="nav-blog-t">Як провести вечірку, щоб не заважати сусідам</span></a>
+                  <a href="/blog/tykha-dyskoteka-silent-disco/" class="nav-blog-card"><span class="nav-blog-thumb"><img src="/images/silent-disco/silent-disco-podrugy-tantsyuyut-pid-svitlom.webp" alt="" loading="lazy"></span> <span class="nav-blog-cat">Про формат</span> <span class="nav-blog-t">Silent Disco, або тиха дискотека: гід для тих, хто чує про формат уперше</span></a>
                 </div>
                 <a href="/blog/" class="nav-mega-all">Усі статті<svg viewBox="0 0 24 24" fill="none" stroke="currentColor" stroke-width="2" stroke-linecap="round" stroke-linejoin="round" aria-hidden="true"><path d="M5 12h14"/><path d="m13 6 6 6-6 6"/></svg></a>
               </div>

diff --git a/blog/yak-vidsvyatkuvaty-den-narodzhennya/index.html b/blog/yak-vidsvyatkuvaty-den-narodzhennya/index.html
@@ -485,10 +485,10 @@ if (/^(localhost|127\.0\.0\.1|\[::1\])$/.test(location.hostname) || /\.localhost
               <div class="nav-mega-card">
                 <div class="nav-mega-cat-head"><span class="nav-mega-icon" aria-hidden="true"><svg viewBox="0 0 24 24" fill="none" stroke="currentColor" stroke-width="1.7" stroke-linecap="round" stroke-linejoin="round"><rect x="3.5" y="3.5" width="7" height="7" rx="1.6"/><rect x="13.5" y="3.5" width="7" height="7" rx="1.6"/><rect x="3.5" y="13.5" width="7" height="7" rx="1.6"/><rect x="13.5" y="13.5" width="7" height="7" rx="1.6"/></svg></span><a href="/blog/#topics" class="nav-mega-cat">Добірка</a></div>
                 <div class="nav-blog-cards">
-                  <a href="/blog/tykha-dyskoteka-silent-disco/" class="nav-blog-card"><span class="nav-blog-thumb"><img src="/images/silent-disco/silent-disco-podrugy-tantsyuyut-pid-svitlom.webp" alt="" loading="lazy"></span> <span class="nav-blog-cat">Про формат</span> <span class="nav-blog-t">Silent Disco, або тиха дискотека: гід для тих, хто чує про формат уперше</span></a>
+                  <a href="/blog/vesillya-voyennyi-stan/" class="nav-blog-card"><span class="nav-blog-thumb"><img src="/images/uc/wedding.webp" alt="" loading="lazy"></span> <span class="nav-blog-cat">Свята</span> <span class="nav-blog-t">Весілля під час війни: розваги й комендантська година</span></a>
                   <a href="/blog/yak-vidsvyatkuvaty-den-narodzhennya/" class="nav-blog-card"><span class="nav-blog-thumb"><img src="/images/birthday/den-narodzhennya-selfi-v-navushnykakh.webp" alt="" loading="lazy"></span> <span class="nav-blog-cat">Свята</span> <span class="nav-blog-t">Як відсвяткувати день народження, щоб гості згадували його з посмішкою</span></a>
-                  <a href="/blog/idei-dlya-korporativu/" class="nav-blog-card"><span class="nav-blog-thumb"><img src="/images/corp/nichna-vechirka-pid-syayvom-navushnykiv.webp" alt="" loading="lazy"></span> <span class="nav-blog-cat">Бізнес</span> <span class="nav-blog-t">Ідеї для корпоративу: розваги без конкурсів і сцени</span></a>
-                  <a href="/blog/novorichnyi-korporatyv-idei/" class="nav-blog-card"><span class="nav-blog-thumb"><img src="/images/corp/yaskrave-selfi-na-vechirtsi-v-navushnykakh.webp" alt="" loading="lazy"></span> <span class="nav-blog-cat">Бізнес</span> <span class="nav-blog-t">Новорічний корпоратив: 7 ідей для вечірки, яку команда запам&#x27;ятає</span></a>
+                  <a href="/blog/vechirka-bez-shumu-sysidy/" class="nav-blog-card"><span class="nav-blog-thumb"><img src="/images/uc/houseparty.webp" alt="" loading="lazy"></span> <span class="nav-blog-cat">Організація</span> <span class="nav-blog-t">Як провести вечірку, щоб не заважати сусідам</span></a>
+                  <a href="/blog/tykha-dyskoteka-silent-disco/" class="nav-blog-card"><span class="nav-blog-thumb"><img src="/images/silent-disco/silent-disco-podrugy-tantsyuyut-pid-svitlom.webp" alt="" loading="lazy"></span> <span class="nav-blog-cat">Про формат</span> <span class="nav-blog-t">Silent Disco, або тиха дискотека: гід для тих, хто чує про формат уперше</span></a>
                 </div>
                 <a href="/blog/" class="nav-mega-all">Усі статті<svg viewBox="0 0 24 24" fill="none" stroke="currentColor" stroke-width="2" stroke-linecap="round" stroke-linejoin="round" aria-hidden="true"><path d="M5 12h14"/><path d="m13 6 6 6-6 6"/></svg></a>
               </div>

diff --git a/experiences/birthday/index.html b/experiences/birthday/index.html
@@ -533,10 +533,10 @@ if (/^(localhost|127\.0\.0\.1|\[::1\])$/.test(location.hostname) || /\.localhost
               <div class="nav-mega-card">
                 <div class="nav-mega-cat-head"><span class="nav-mega-icon" aria-hidden="true"><svg viewBox="0 0 24 24" fill="none" stroke="currentColor" stroke-width="1.7" stroke-linecap="round" stroke-linejoin="round"><rect x="3.5" y="3.5" width="7" height="7" rx="1.6"/><rect x="13.5" y="3.5" width="7" height="7" rx="1.6"/><rect x="3.5" y="13.5" width="7" height="7" rx="1.6"/><rect x="13.5" y="13.5" width="7" height="7" rx="1.6"/></svg></span><a href="/blog/#topics" class="nav-mega-cat">Добірка</a></div>
                 <div class="nav-blog-cards">
-                  <a href="/blog/tykha-dyskoteka-silent-disco/" class="nav-blog-card"><span class="nav-blog-thumb"><img src="/images/silent-disco/silent-disco-podrugy-tantsyuyut-pid-svitlom.webp" alt="" loading="lazy"></span> <span class="nav-blog-cat">Про формат</span> <span class="nav-blog-t">Silent Disco, або тиха дискотека: гід для тих, хто чує про формат уперше</span></a>
+                  <a href="/blog/vesillya-voyennyi-stan/" class="nav-blog-card"><span class="nav-blog-thumb"><img src="/images/uc/wedding.webp" alt="" loading="lazy"></span> <span class="nav-blog-cat">Свята</span> <span class="nav-blog-t">Весілля під час війни: розваги й комендантська година</span></a>
                   <a href="/blog/yak-vidsvyatkuvaty-den-narodzhennya/" class="nav-blog-card"><span class="nav-blog-thumb"><img src="/images/birthday/den-narodzhennya-selfi-v-navushnykakh.webp" alt="" loading="lazy"></span> <span class="nav-blog-cat">Свята</span> <span class="nav-blog-t">Як відсвяткувати день народження, щоб гості згадували його з посмішкою</span></a>
-                  <a href="/blog/idei-dlya-korporativu/" class="nav-blog-card"><span class="nav-blog-thumb"><img src="/images/corp/nichna-vechirka-pid-syayvom-navushnykiv.webp" alt="" loading="lazy"></span> <span class="nav-blog-cat">Бізнес</span> <span class="nav-blog-t">Ідеї для корпоративу: розваги без конкурсів і сцени</span></a>
-                  <a href="/blog/novorichnyi-korporatyv-idei/" class="nav-blog-card"><span class="nav-blog-thumb"><img src="/images/corp/yaskrave-selfi-na-vechirtsi-v-navushnykakh.webp" alt="" loading="lazy"></span> <span class="nav-blog-cat">Бізнес</span> <span class="nav-blog-t">Новорічний корпоратив: 7 ідей для вечірки, яку команда запам&#x27;ятає</span></a>
+                  <a href="/blog/vechirka-bez-shumu-sysidy/" class="nav-blog-card"><span class="nav-blog-thumb"><img src="/images/uc/houseparty.webp" alt="" loading="lazy"></span> <span class="nav-blog-cat">Організація</span> <span class="nav-blog-t">Як провести вечірку, щоб не заважати сусідам</span></a>
+                  <a href="/blog/tykha-dyskoteka-silent-disco/" class="nav-blog-card"><span class="nav-blog-thumb"><img src="/images/silent-disco/silent-disco-podrugy-tantsyuyut-pid-svitlom.webp" alt="" loading="lazy"></span> <span class="nav-blog-cat">Про формат</span> <span class="nav-blog-t">Silent Disco, або тиха дискотека: гід для тих, хто чує про формат уперше</span></a>
                 </div>
                 <a href="/blog/" class="nav-mega-all">Усі статті<svg viewBox="0 0 24 24" fill="none" stroke="currentColor" stroke-width="2" stroke-linecap="round" stroke-linejoin="round" aria-hidden="true"><path d="M5 12h14"/><path d="m13 6 6 6-6 6"/></svg></a>
               </div>
